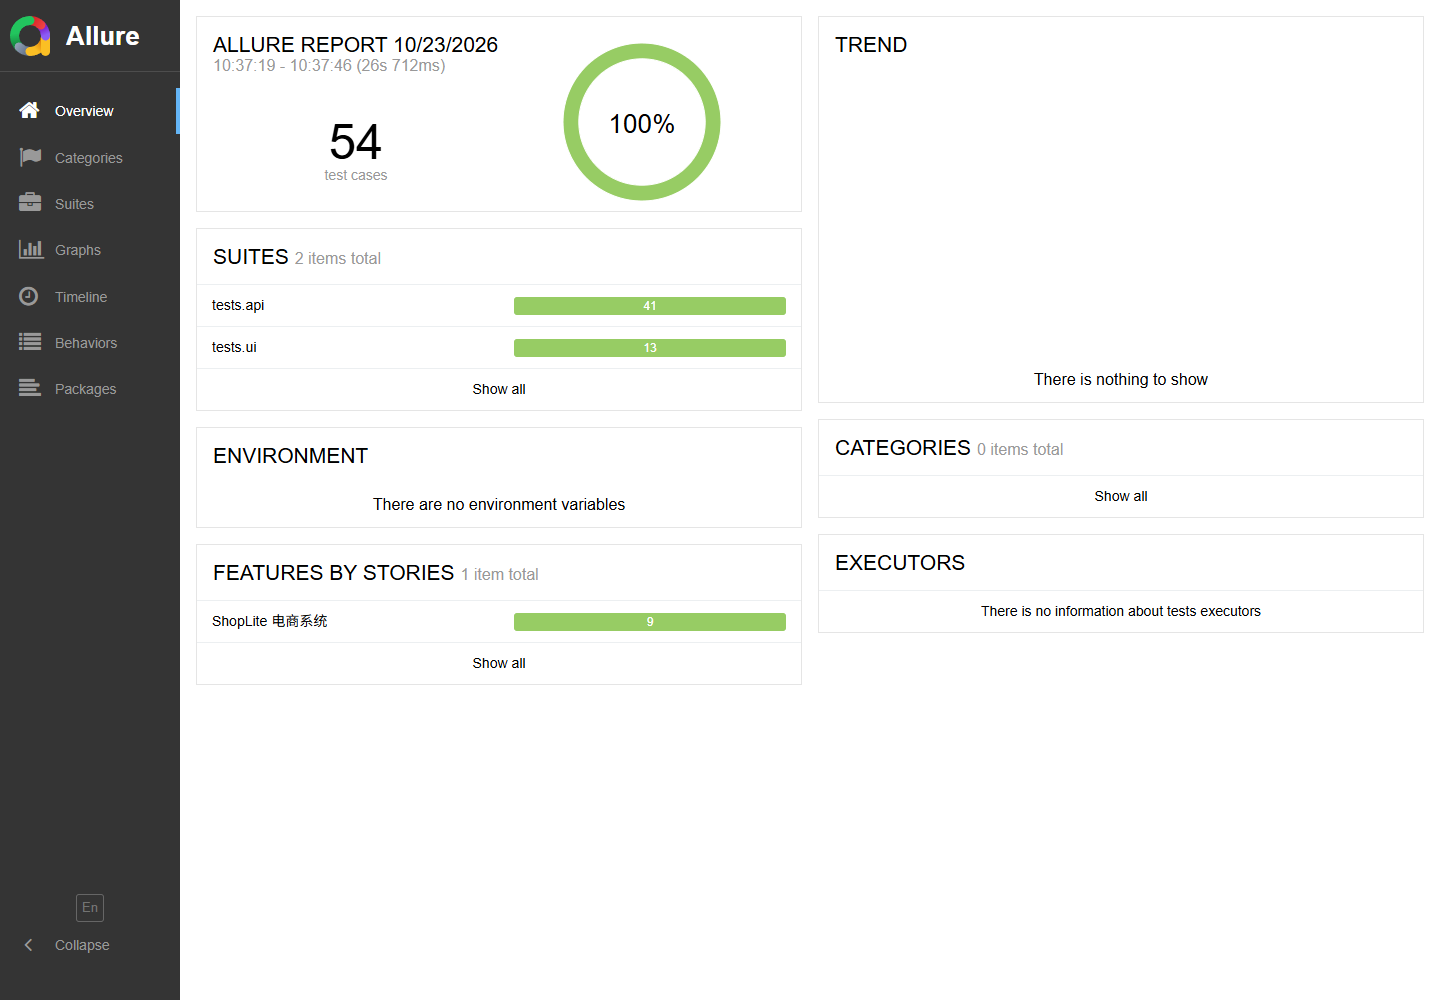
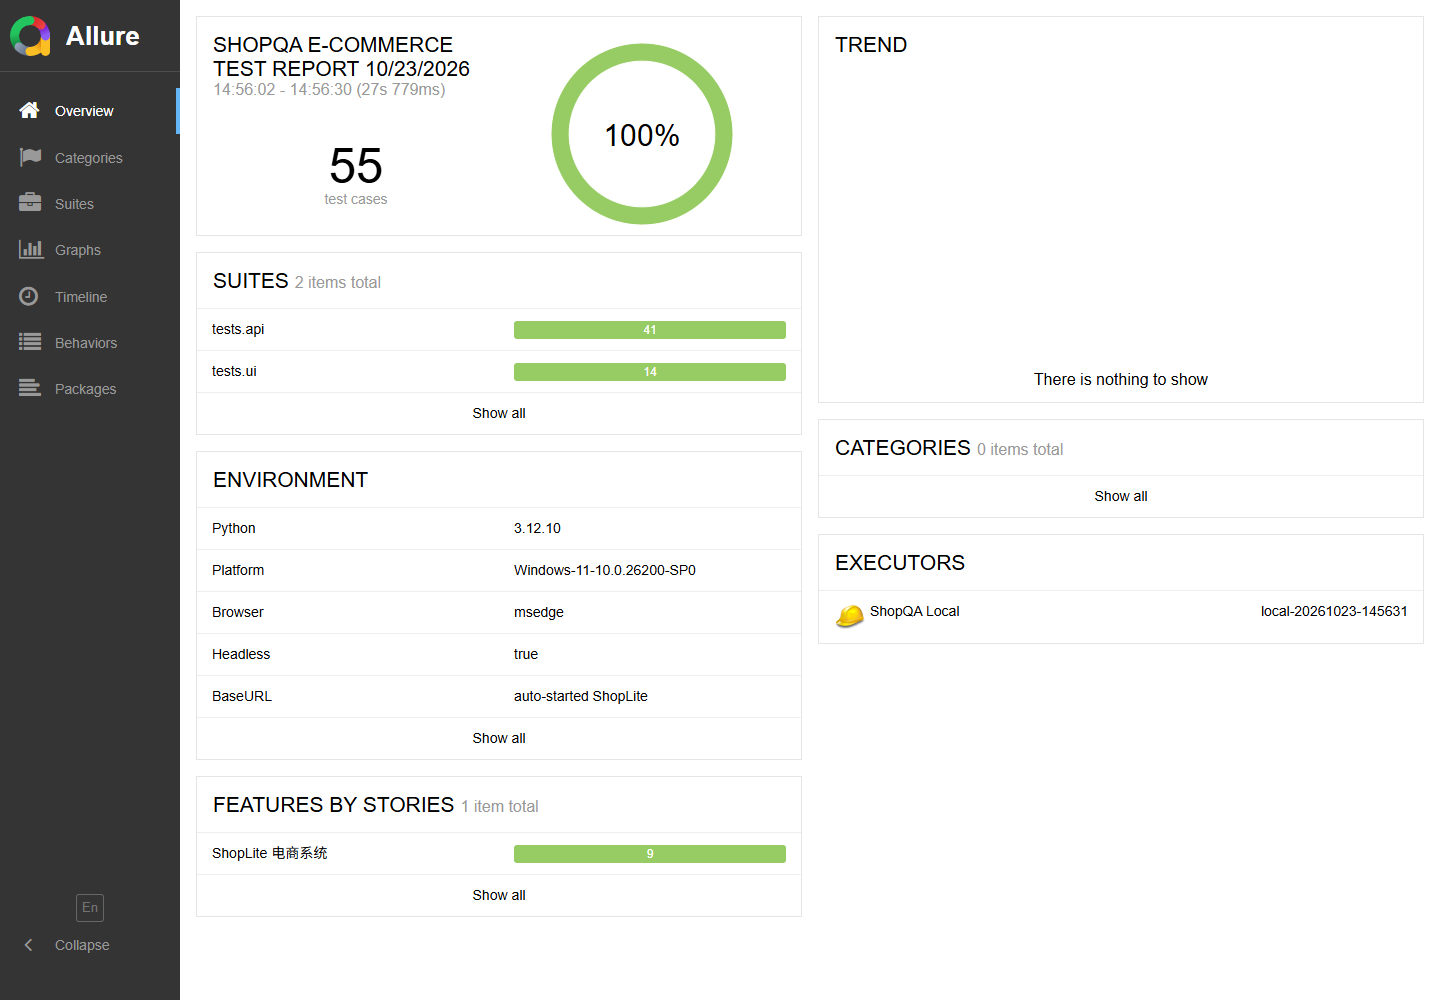
test: add empty product search UI case

diff --git a/tests/ui/test_login.py b/tests/ui/test_login.py
@@ -84,6 +84,20 @@ class TestProductsPage:
 
         assert products_page.product_names() == ["机械键盘 Pro"]
 
+    @allure.story("搜索")
+    @allure.title("搜索不存在的商品展示空结果提示")
+    def test_search_no_result(self, page):
+        login_page = LoginPage(page)
+        login_page.goto()
+        products_page = login_page.login(DEMO_USERNAME, DEMO_PASSWORD)
+        products_page.wait_for_url("**/products*")
+
+        products_page.search("不存在的商品")
+
+        assert products_page.locator("no-products").is_visible()
+        assert "没有找到“不存在的商品”" in products_page.text_of("no-products")
+        assert products_page.product_names() == []
+
 
 @allure.epic("ShopLite 电商系统")
 @allure.feature("Web UI - 访问控制")

diff --git a/docs/简历写法.md b/docs/简历写法.md
@@ -13,7 +13,7 @@
 `Python / pytest / requests / Playwright / Allure / SQLite / GitHub Actions`
 
 - 独立搭建 API + Web UI 分层自动化框架，采用 Page Object、fixture、YAML 数据驱动，覆盖登录、商品、购物车、优惠券、下单、订单查询等核心链路。
-- 设计并实现 **54 条**自动化用例（41 条接口 + 13 条 UI），覆盖正常流、异常流、边界值、库存上限、优惠券门槛和用户越权。
+- 设计并实现 **55 条**自动化用例（41 条接口 + 14 条 UI），覆盖正常流、异常流、边界值、库存上限、优惠券门槛和用户越权。
 - 封装 requests 客户端与 JSON Schema 契约校验；下单用例增加订单、明细、库存的 SQLite 断言，避免“接口返回成功但数据未落库”的假通过。
 - 接入 Allure 报告与 GitHub Actions，失败自动附请求/响应/截图/页面 HTML；支持 `pytest -m smoke` 冒烟回归。
 
@@ -23,15 +23,15 @@
 
 **主要工作**：
 
-1. **测试设计**：梳理登录、商品、购物车、优惠券、下单、订单六条业务链路，输出测试计划与 54 条用例，使用等价类、边界值、场景法、错误推测补充异常场景。
+1. **测试设计**：梳理登录、商品、购物车、优惠券、下单、订单六条业务链路，输出测试计划与 55 条用例，使用等价类、边界值、场景法、错误推测补充异常场景。
 2. **接口自动化**：基于 pytest + requests 封装 `ApiClient`，统一 token、日志、Allure 附件；用 JSON Schema 校验响应契约，用 YAML 参数化覆盖注册异常和优惠券规则。
 3. **UI 自动化**：基于 Playwright 实现 Page Object，页面统一 `data-testid`；覆盖登录、搜索、加购、改数量、结算、下单、订单历史，失败自动截图并保存 HTML。
 4. **数据校验**：每个用例使用独立随机用户，测试会话使用临时 SQLite；下单后断言订单主表、订单明细、库存扣减，验证数据一致性。
 5. **工程化**：接入 Allure 报告、日志、PyCharm 运行配置和 GitHub Actions；支持按 `smoke`、`api`、`ui` 标记分组执行。
 
-**项目成果**：全量 54 条用例本地执行通过，单次全量约 31 秒；冒烟集 6 条约 7 秒；失败用例可通过 Allure 直接定位到请求、响应、截图和数据库结果。
+**项目成果**：全量 55 条用例本地执行通过，单次全量约 30 秒；冒烟集 6 条约 7 秒；失败用例可通过 Allure 直接定位到请求、响应、截图和数据库结果。
 
-> 如果你还没有真正跑过一次，先把“项目成果”改成“完成 54 条用例设计与实现，正在接入 CI”，不要虚构通过率。
+> 如果你还没有真正跑过一次，先把“项目成果”改成“完成 55 条用例设计与实现，正在接入 CI”，不要虚构通过率。
 
 ---
 
@@ -47,7 +47,7 @@
 我先写了一个最小电商系统 ShopLite，再把测试分成三层：接口层用 pytest + requests，UI 层用 Playwright + Page Object，数据层用 SQLite 断言。用例设计上覆盖正常流、异常流、边界值和越权；工程上接了 Allure、日志和 GitHub Actions。
 
 **R（结果）**  
-最终形成 54 条自动化用例，覆盖从登录到下单的完整链路。全量执行通过，失败时能直接看到请求、响应、截图和数据库结果。这个项目让我真正理解了“测试不是点页面，而是设计验证”。
+最终形成 55 条自动化用例，覆盖从登录到下单的完整链路。全量执行通过，失败时能直接看到请求、响应、截图和数据库结果。这个项目让我真正理解了“测试不是点页面，而是设计验证”。
 
 ---
 
@@ -182,7 +182,7 @@ Python / pytest / requests / Playwright / Allure / SQLite / GitHub Actions
 
 • 独立搭建 API + Web UI 分层自动化测试框架，采用 Page Object、fixture、
   YAML 数据驱动，覆盖登录、商品、购物车、优惠券、下单、订单查询。
-• 设计 54 条用例（41 API + 13 UI），覆盖正常流、异常流、边界值、
+• 设计 55 条用例（41 API + 14 UI），覆盖正常流、异常流、边界值、
   库存上限、优惠券门槛和用户越权。
 • 封装 requests 客户端与 JSON Schema 契约校验；下单用例增加订单、
   明细、库存的 SQLite 断言，避免接口假通过。

diff --git a/docs/测试用例.md b/docs/测试用例.md
@@ -1,6 +1,6 @@
 # ShopQA 测试用例
 
-> 说明：表中是“用例设计”，参数化展开后共 **54 条**自动化用例。  
+> 说明：表中是“用例设计”，参数化展开后共 **55 条**自动化用例。  
 > 优先级：P0 核心链路，P1 重要规则，P2 一般异常/兼容。  
 > 自动化：✅ 已自动化，⏳ 后续扩展。
 
@@ -82,14 +82,15 @@
 | UI-011 | 空购物车结算 | P1 | 购物车为空 | 打开 `/checkout` | 回购物车；提示购物车为空 | ✅ |
 | UI-012 | 订单历史 | P1 | 已下单 | 打开我的订单并点查看 | 列表有该订单；详情金额正确 | ✅ |
 | UI-013 | 改 URL 越权 | P1 | A 有订单，B 登录 | B 直接打开 A 的订单 URL | 跳回订单列表；提示订单不存在 | ✅ |
+| UI-014 | 搜索无结果 | P2 | 已登录 | 搜索“不存在的商品” | 显示“没有找到”空状态；商品列表为空 | ✅ |
 
 ## 6. 覆盖统计
 
 | 类型 | 数量 |
 |---|---|
 | 接口自动化（参数化展开） | 41 |
-| UI 自动化 | 13 |
-| 合计 | 54 |
+| UI 自动化 | 14 |
+| 合计 | 55 |
 | P0 冒烟用例 | 见 `pytest -m smoke` |
 | 自动化率（本范围） | 100% |
 

diff --git a/docs/测试报告.md b/docs/测试报告.md
@@ -17,14 +17,14 @@
 
 | 指标 | 结果 |
 |---|---|
-| 用例总数 | 54 |
-| 通过 | 54 |
+| 用例总数 | 55 |
+| 通过 | 55 |
 | 失败 | 0 |
 | 跳过 | 0 |
 | 通过率 | 100% |
-| 全量耗时 | 30.95 秒（pytest 计时，约 31 秒） |
+| 全量耗时 | 29.55 秒（pytest 计时，约 30 秒） |
 | 接口用例 | 41 |
-| UI 用例 | 13 |
+| UI 用例 | 14 |
 
 执行命令：
 
@@ -35,17 +35,17 @@
 结果：
 
 ```text
-54 passed in 30.95s
+55 passed in 29.55s
 ```
 
 ## 3. 分组结果
 
 | 分组 | 命令 | 结果 |
 |---|---|---|
-| 全量 | `pytest` | 54 passed |
+| 全量 | `pytest` | 55 passed |
 | 接口 | `pytest tests/api` | 41 passed in 10.00s |
-| UI | `pytest tests/ui` | 13 passed in 21.46s |
-| 冒烟 | `pytest -m smoke` | 6 passed, 48 deselected in 6.69s |
+| UI | `pytest tests/ui` | 14 passed |
+| 冒烟 | `pytest -m smoke` | 6 passed, 49 deselected in 6.69s |
 
 ## 4. 覆盖情况
 

diff --git a/README.md b/README.md
@@ -69,7 +69,7 @@ shopqa-test-framework/
 ├── tests/
 │   ├── conftest.py              # 启动服务、浏览器、用户、登录态 fixture
 │   ├── api/                     # 41 条接口用例
-│   ├── ui/                      # 13 条 UI 用例
+│   ├── ui/                      # 14 条 UI 用例
 │   └── helpers.py
 ├── data/                        # YAML 测试数据
 ├── docs/                        # 测试计划、用例、讲解、简历写法
@@ -149,7 +149,7 @@ allure serve reports\allure-results
 
 ![Allure 报告](docs/images/05-allure-overview.png)
 
-*54 条用例全部通过，报告里能看到 41 条接口 + 13 条 UI 的分组。*
+*55 条用例全部通过，报告里能看到 41 条接口 + 14 条 UI 的分组。*
 
 ### 4.5 在 Allure 里看参数化用例的标题
 

diff --git a/docs/项目讲解.md b/docs/项目讲解.md
@@ -171,7 +171,7 @@ env["SHOPLITE_DB_PATH"] = str(db_path)
 
 ### 为什么服务只启动一次
 
-启动服务要一两秒，54 条用例每条启动一次太慢。  
+启动服务要一两秒，55 条用例每条启动一次太慢。  
 所以 `demo_server` 用 `scope="session"`，整个会话只启动一次；但每个用例仍然用独立用户，兼顾速度和隔离。
 
 ---

diff --git a/.run/README.md b/.run/README.md
@@ -4,7 +4,7 @@ PyCharm 打开项目后，右上角可以选择以下配置：
 
 | 配置 | 作用 |
 |---|---|
-| `ShopQA All Tests` | 全量 54 条 |
+| `ShopQA All Tests` | 全量 55 条 |
 | `ShopQA Smoke` | 冒烟 6 条 |
 | `ShopQA API Tests` | 只跑接口 41 条 |
 | `ShopQA UI Tests (watch)` | 有头浏览器，slow_mo=200ms，方便看操作 |
